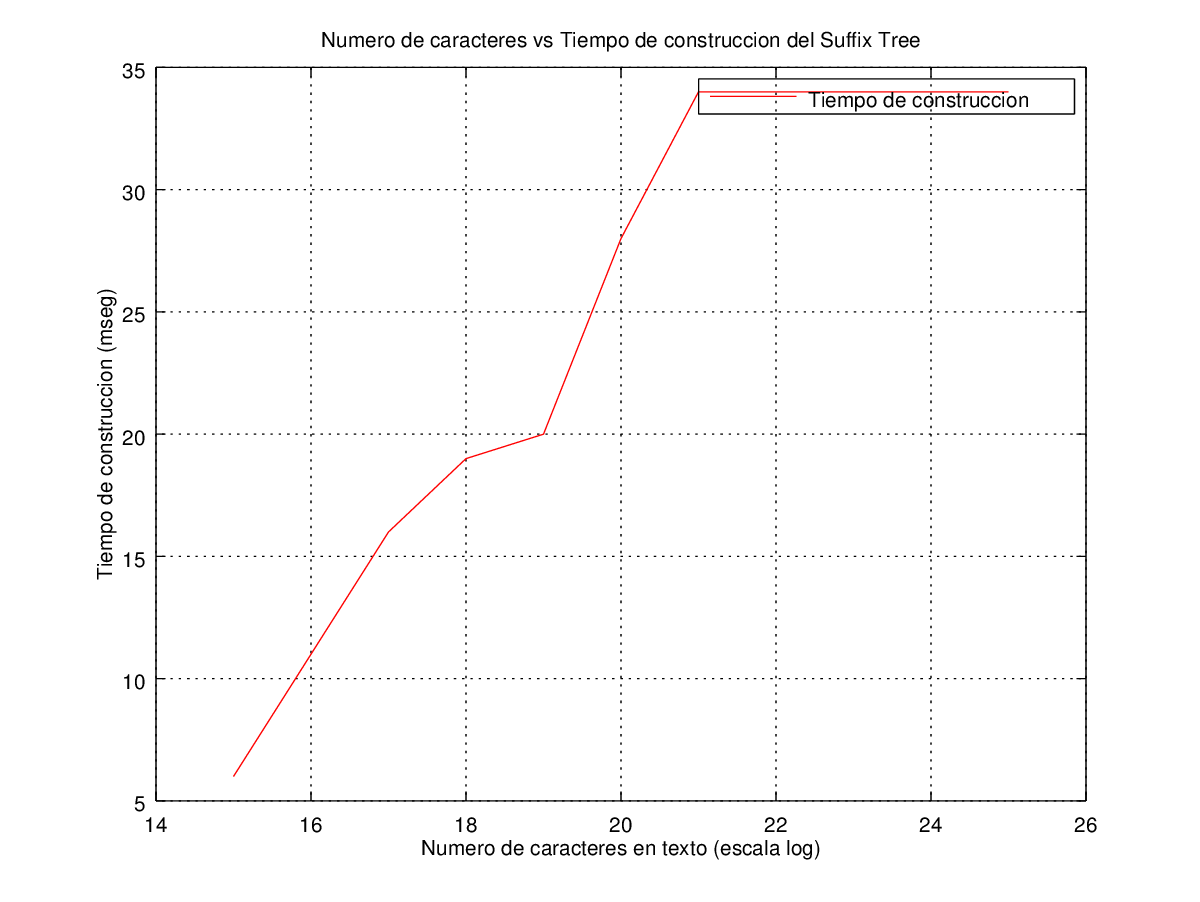
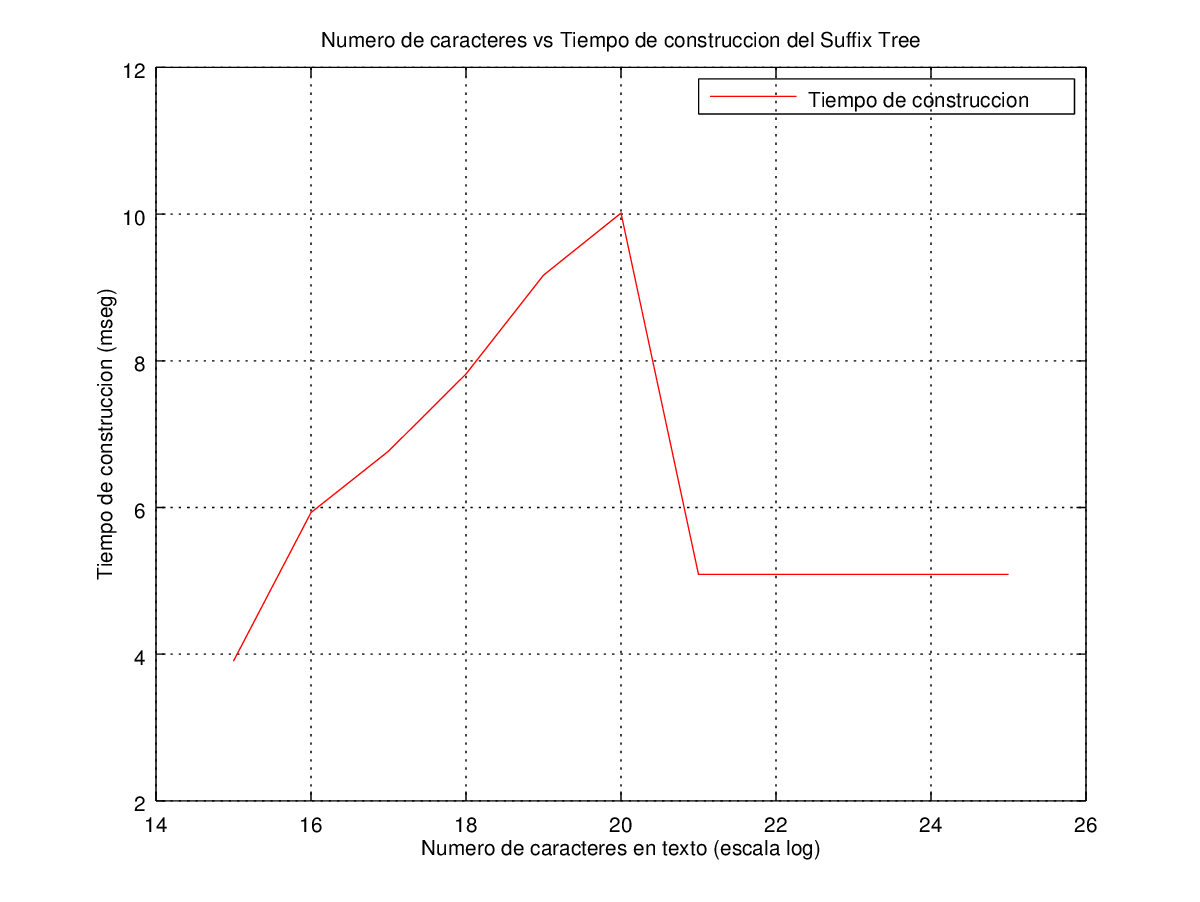
results forzados en informe

diff --git a/Informe/PlotsInforme.m b/Informe/PlotsInforme.m
@@ -1,46 +1,51 @@
-# Inicializador
+## Inicializador
 
 start = 15;
-finish = 25;
+#finish = 25;
+finish = 21;
 for i = start : finish
   text_length(i - start + 1) = 2^i;
   word_search_number(i - start + 1) = 2^i / 10;
 end
 
-# --- START DATA --- #
+## --- START DATA --- ##
 
-# Tiempos de construccion Suffix Tree (mseg)
+## Tiempos de construccion Suffix Tree (mseg)
 
-construction_time = [6,11,16,19,20,28,34,34,34,34,34];
+#construction_time = [15,61,109,226,575,1034,34,34,34,34,34]; # 15..25
+construction_time = [15,61,109,226,575,1034,2219]; # 15..21
 
-# Operaciones por fase
+## Operaciones por fase
 
-avg_ops_per_phase = [0,0,0,0,0,0,0,0,0,0,0];
+#avg_ops_per_phase = [0,0,0,0,0,0,0,0,0,0,0];
+avg_ops_per_phase = [0,0,0,0,0,0,0];
 
-# Largo promedio patron
+## Largo promedio patron
 
-avg_pattern_length = [1,2,3,4,5,6,7,8,9,10,11];
+#avg_pattern_length = [1,2,3,4,5,6,7,8,9,10,11];
+avg_pattern_length = [1,2,3,4,5,6,7];
 
-# Tiempos de busqueda (mseg)
+## Tiempos de busqueda (mseg)
 
-search_time = [11,10,9,8,7,6,5,4,3,2,1];
+#search_time = [11,10,9,8,7,6,5,4,3,2,1];
+search_time = [7,6,5,4,3,2,1];
 
-# --- END DATA --- #
+## --- END DATA --- ##
 
-# Plot para tiempo de construccion
+## Plot para tiempo de construccion
 
 figure(1);
 hold on;
-plot(log2(text_length), construction_time, "r");
+plot(log2(text_length), log2(construction_time), "r");
 legend("Tiempo de construccion");
 grid on;
-xlabel ("Numero de caracteres en texto (escala log)");
+xlabel ("Numero de caracteres en texto");
 ylabel ("Tiempo de construccion (mseg)");
-title ("Numero de caracteres vs Tiempo de construccion del Suffix Tree");
+title ("Numero de caracteres vs Tiempo de construccion del Suffix Tree (Escala logaritmica");
 print -dpng fig1.png;
 hold off;
 
-# Plot para tiempo de construccion
+## Plot para tiempo de construccion
 
 figure(2);
 hold on;
@@ -53,7 +58,7 @@ title ("Numero de caracteres vs Operaciones por fase");
 print -dpng fig2.png;
 hold off;
 
-# Plot para busqueda
+## Plot para busqueda
 
 figure(3);
 hold on;

diff --git a/SuffixTreesJava/src/main/Main.java b/SuffixTreesJava/src/main/Main.java
@@ -47,9 +47,11 @@ public class Main {
 		 * Recibimos un texto para procesarlo
 		 */
 		String text = null;
+		
+		for (int i = 15; i <= 25; i++) {
 
 		try {
-			text = new String(Files.readAllBytes(Paths.get("../Texts/english.N18")), StandardCharsets.UTF_8);
+			text = new String(Files.readAllBytes(Paths.get("../Texts/english.N" + i)), StandardCharsets.UTF_8);
 		} catch (IOException e) {
 			e.printStackTrace();
 		}
@@ -57,6 +59,7 @@ public class Main {
 		String processedText = TextPreprocessor.process(text);
 
 		double textLength = Math.log(processedText.length()) / Math.log(2.0);
+		logger.log("El texto procesado es de aprox. N = 2^" + Math.round(textLength) + " caracteres");
 		System.out.println("El texto procesado es de aprox. N = 2^" + Math.round(textLength) + " caracteres");
 
 		/**
@@ -69,11 +72,14 @@ public class Main {
 		endTime = System.currentTimeMillis();
 
 		logger.log("Tiempo de construcción de SuffixTree = " + (endTime - initTime));
+		System.out.println("Tiempo de construcción de SuffixTree = " + (endTime - initTime) + "\n");
 		logger.log();
-
+		
+		}
+/*
 		/**
 		 * Elegimos N/10 palabras del texto al azar para buscarlas
-		 */
+		 *
 		List<String> toSearch = new ArrayList<String>();
 		String splittedText[] = processedText.split(" ");
 
@@ -83,7 +89,7 @@ public class Main {
 
 		/**
 		 * Buscamos las palabras en el Suffix Tree
-		 */
+		 *
 		for (String word : toSearch) {
 			if (word.length() != 0) {
 
@@ -101,11 +107,10 @@ public class Main {
 				logger.log();
 			}
 		}
+		*/
 		logger.terminate();
 
 	}
-
-	
 
 	public static void imprimirSuffixTree(Node root) {
 		int i = 0;
